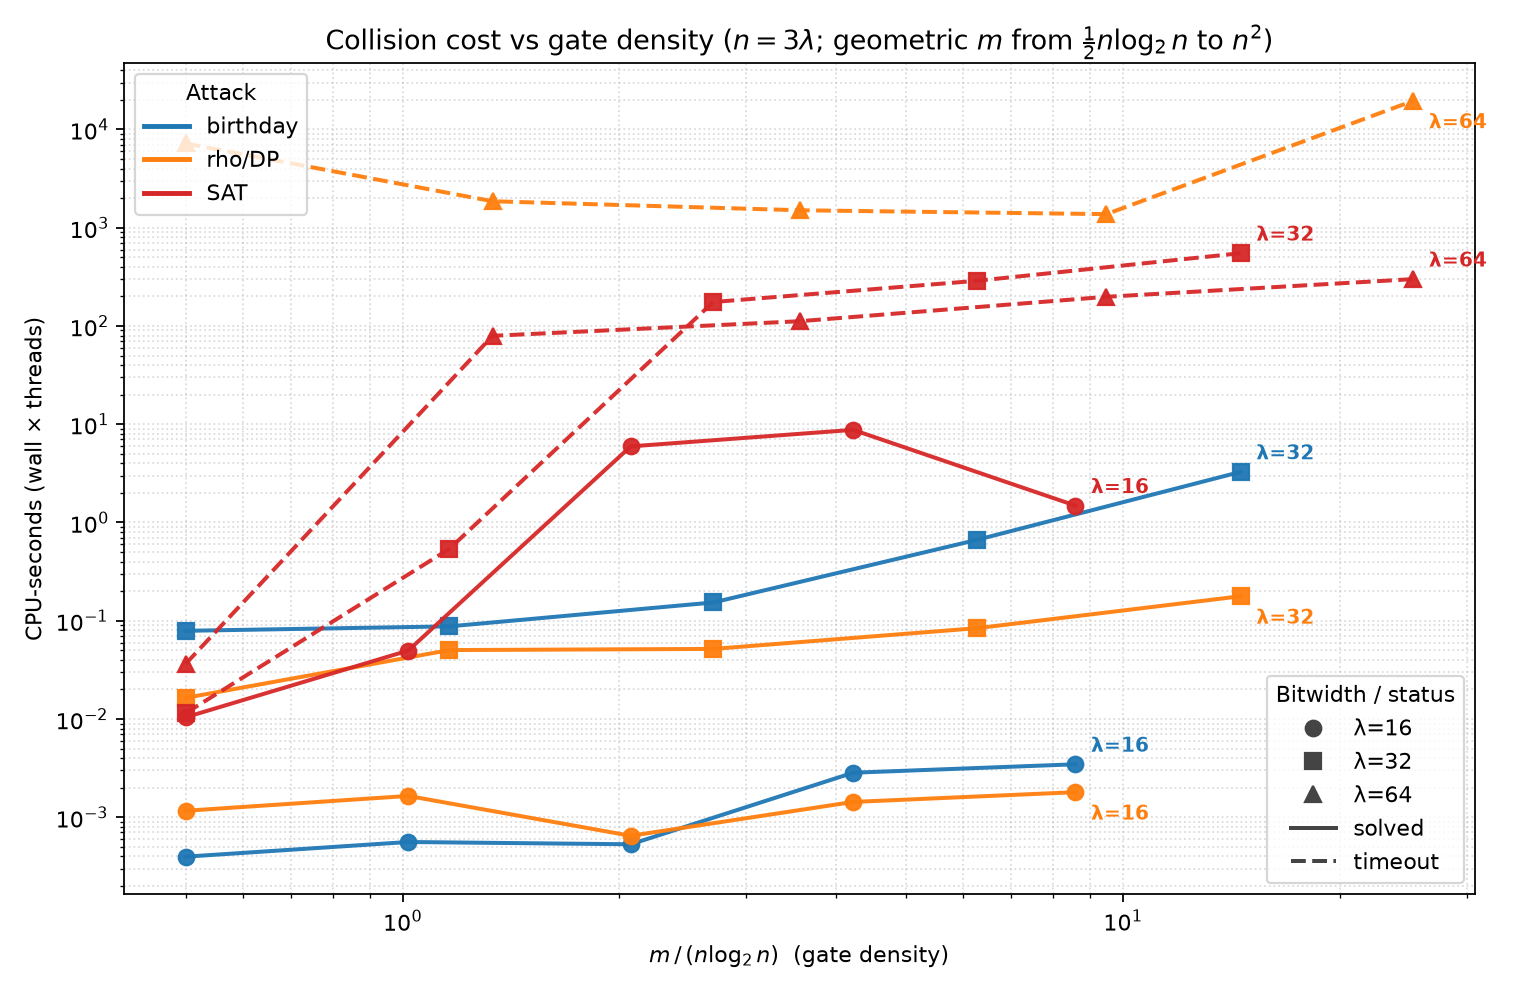
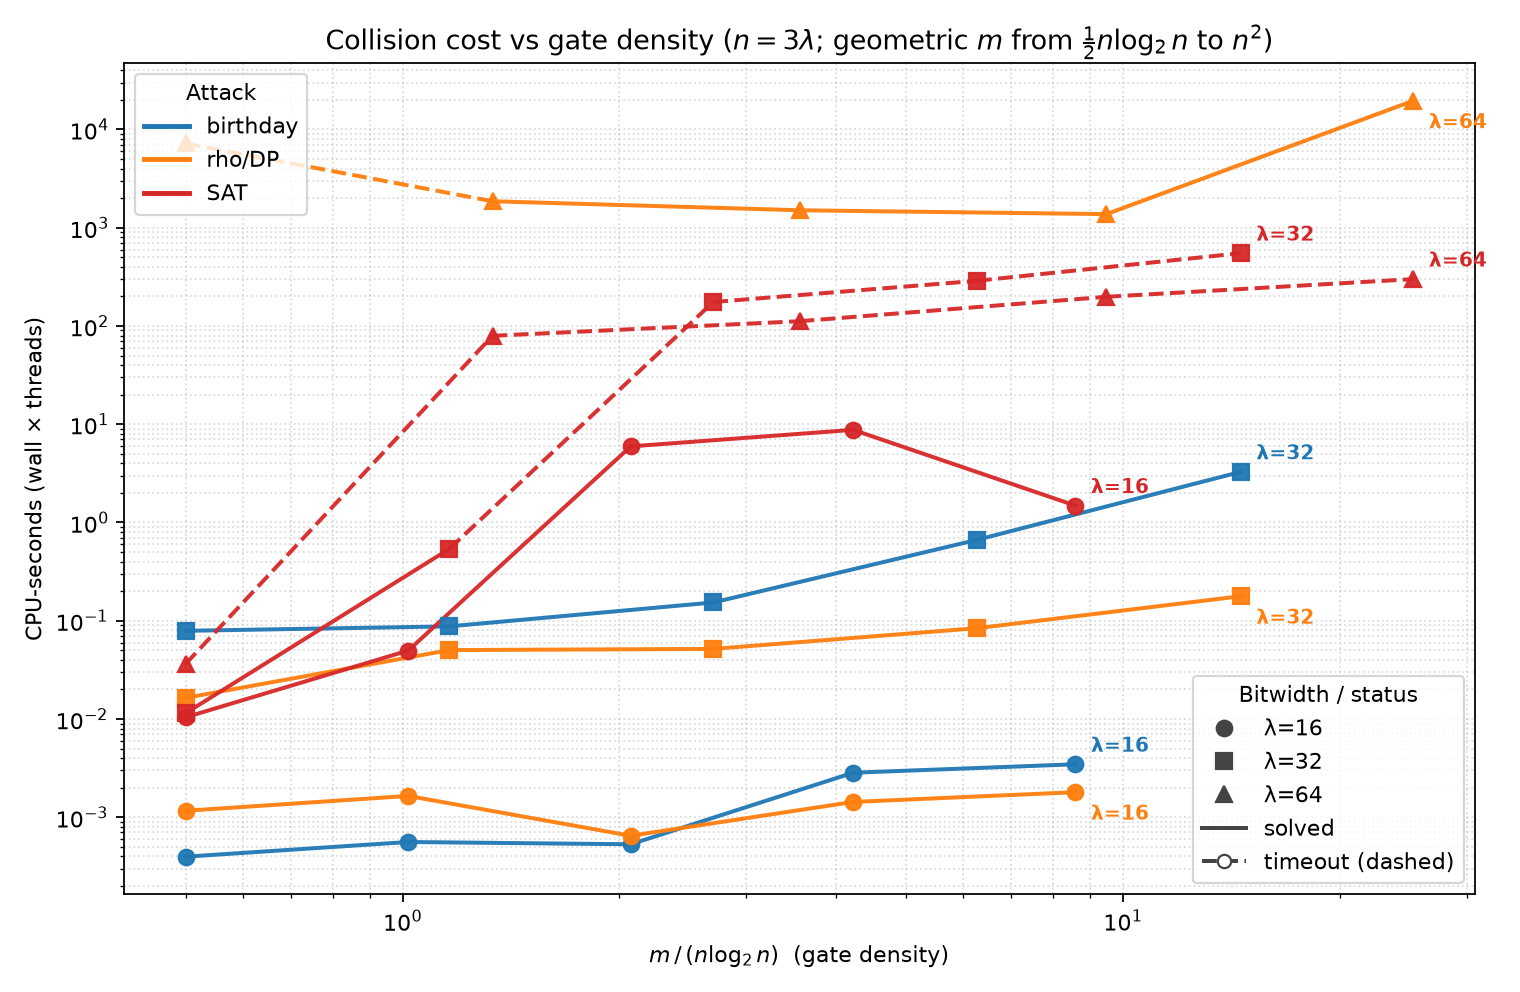
Restore gate-density plot with solid/dashed segment styling
Bring back the checked-in curve style: one connected series per
(attack, λ), solid through solved points and dashed through timeouts,
same bitwidth markers throughout.

diff --git a/security_tests/collision/plot_gate_density.py b/security_tests/collision/plot_gate_density.py
@@ -79,16 +79,26 @@ def plot(results: dict, out_png: Path, out_pdf: Path | None = None) -> None:
             # Slight per-attack vertical nudge so nearby labels don't collide.
             dy = {"birthday": 8, "rho": -10, "sat": 8}.get(attack, 0)
 
-            # One continuous polyline per (attack, λ). Dashed iff any timeout
-            # is on the curve; same bitwidth marker on every point.
+            # Draw segment-by-segment so solved stretches stay solid and any
+            # segment touching a timeout is dashed — same markers throughout.
+            for i in range(len(pts) - 1):
+                ls = "-" if ok_flags[i] and ok_flags[i + 1] else "--"
+                ax.plot(
+                    xs[i : i + 2],
+                    ys[i : i + 2],
+                    color=color,
+                    ls=ls,
+                    lw=1.8,
+                    alpha=0.95,
+                    zorder=2,
+                )
             ax.plot(
                 xs,
                 ys,
                 color=color,
                 marker=marker,
                 ms=7,
-                lw=1.8,
-                linestyle=("-" if all(ok_flags) else "--"),
+                lw=0,
                 alpha=0.95,
                 zorder=3,
             )
